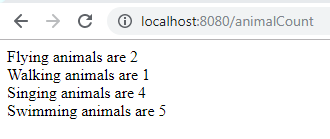
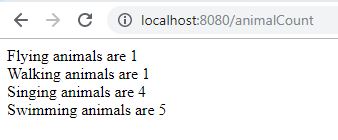
minor changes: made class as abstract

diff --git a/src/main/java/demo/asssigment/a/Parrot.java b/src/main/java/demo/asssigment/a/Parrot.java
@@ -3,11 +3,10 @@ package demo.asssigment.a;
 import org.springframework.stereotype.Component;
 
 import demo.assignment.category.Bird;
-import demo.assignment.category.Fly;
 import demo.assignment.category.Sing;
 
 @Component
-public class Parrot extends Bird implements Sing, Fly {
+public class Parrot extends Bird implements Sing {
 
 	@Override
 	public String singing() { 
@@ -18,9 +17,4 @@ public class Parrot extends Bird implements Sing, Fly {
 		return companion.getVoice().toString();
 	}
 
-	@Override
-	public String flying() {
-		
-		return "flying";
-	}
 }

diff --git a/src/main/java/demo/assignment/e/CountingAnimals.java b/src/main/java/demo/assignment/e/CountingAnimals.java
@@ -9,7 +9,6 @@ import demo.assignment.b.Dolphins;
 import demo.assignment.b.Fish;
 import demo.assignment.b.Sharks;
 import demo.assignment.category.Animal;
-import demo.assignment.category.Bird;
 import demo.assignment.category.Fly;
 import demo.assignment.category.Sing;
 import demo.assignment.category.Swim;
@@ -37,7 +36,6 @@ public class CountingAnimals {
 		
 		ArrayList<Animal> animals =  new ArrayList<Animal>();
 				 
-		animals.add(new Bird());
 		animals.add(new Duck());
 		animals.add(new Chicken());
 		animals.add(new Rooster());

diff --git a/src/main/java/demo/assignment/category/Aquatic.java b/src/main/java/demo/assignment/category/Aquatic.java
@@ -3,7 +3,7 @@ package demo.assignment.category;
 import org.springframework.stereotype.Component;
 
 @Component
-public class Aquatic extends Animal implements Swim {
+public abstract class Aquatic extends Animal implements Swim {
 
 	@Override
 	public String swimming() {

diff --git a/src/main/java/demo/assignment/category/Insects.java b/src/main/java/demo/assignment/category/Insects.java
@@ -3,6 +3,6 @@ package demo.assignment.category;
 import org.springframework.stereotype.Component;
 
 @Component
-public class Insects extends Animal {
+public abstract class Insects extends Animal {
 
 }

diff --git a/src/main/java/demo/assignment/category/Bird.java b/src/main/java/demo/assignment/category/Bird.java
@@ -3,6 +3,6 @@ package demo.assignment.category;
 import org.springframework.stereotype.Component;
 
 @Component
-public class Bird extends Animal {
+public abstract class Bird extends Animal {
 
 }

diff --git a/src/main/java/demo/assignment/category/Animal.java b/src/main/java/demo/assignment/category/Animal.java
@@ -3,6 +3,6 @@ package demo.assignment.category;
 import org.springframework.stereotype.Component;
 
 @Component
-public class Animal {
+public abstract class Animal {
 
 }
